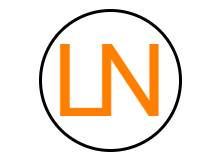
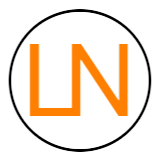
gui

Changed region(s): [[0.0312, 0.0312, 0.9688, 0.9688], [0.5938, 0.4062, 0.625, 0.4375]]

diff --git a/src/gui.py b/src/gui.py
@@ -1,22 +1,20 @@
+# gui.py
+
 import tkinter as tk
-from logic import evaluate
-
-
+from calculator import evaluate
 
 class CalculatorGUI:
     def __init__(self, master):
         self.master = master
 
-        
         master.title("Lucenext")
         master.configure(bg='black')
         master.geometry("400x600")
-        # master.iconbitmap('src/icon.png')
+        icon = tk.PhotoImage(file='src/icon.png')
+        master.iconphoto(True, icon)
         master.resizable(False, False)
 
 
-        
-        # Configure grid for equal column widths and uniform gaps
         for i in range(5):
             master.grid_columnconfigure(i, weight=1, uniform='col')
         for r in range(0, 11):
@@ -27,8 +25,6 @@ class CalculatorGUI:
         self.result_var = tk.StringVar()
         self.last_result = 0
 
-
-        # Displays
         tk.Label(master, textvariable=self.expr_var,
                  anchor='e', bg='black', fg='white',
                  font=('Arial', 14)) \
@@ -40,7 +36,6 @@ class CalculatorGUI:
           .grid(row=2, column=0, columnspan=5,
                 sticky='we', padx=2, pady=(0,2))
 
-        # Base selection aligned above first three function buttons
         self.base_var = tk.IntVar(value=10)
         for idx, (text, val) in enumerate([('Decimal',10),
                                            ('Octal',8),
@@ -51,13 +46,11 @@ class CalculatorGUI:
                 selectcolor='gray30', bd=0, highlightthickness=0,
                 relief='flat'
             )
-            rb.grid(row=3, column=idx,
-                    sticky='nsew', padx=2, pady=2)
+            rb.grid(row=3, column=idx, sticky='nsew', padx=2, pady=2)
 
         tk.Label(master, bg='black') \
           .grid(row=3, column=3, columnspan=2)
 
-        # Button layout
         btn_rows = [
             ['sin','cos','tg','cotg','e'],
             ['ln','log','|x|','CE','⌫'],
@@ -76,23 +69,20 @@ class CalculatorGUI:
                     command=cmd, bd=0, relief='flat',
                     highlightthickness=0
                 )
-                # Color coding
                 if char.isdigit() or char in (',', 'ANS'):
                     btn.config(bg='gray30', fg='white')
                 elif char in ['+','–','×','÷','=']:
                     btn.config(bg='darkorange', fg='black')
                 else:
                     btn.config(bg='white', fg='black')
-                btn.grid(row=r, column=c,
-                         sticky='nsew', padx=2, pady=2)
+                btn.grid(row=r, column=c, sticky='nsew', padx=2, pady=2)
                 self.buttons[char] = btn
 
     def on_button(self, char):
         expr = self.expr_var.get()
 
-        # ANS: insert last result
         if char == 'ANS':
-            ans_str = str(self.last_result).replace('.', ',')
+            ans_str = self.format_result(self.last_result).replace('.', ',')
             if self.after_equal or not expr:
                 self.expr_var.set(ans_str)
             else:
@@ -117,7 +107,7 @@ class CalculatorGUI:
                 expr += ')' * (open_p - close_p)
                 self.expr_var.set(expr)
 
-            result = evaluate(expr)
+            result = evaluate(expr, self.base_var.get())
             self.last_result = result
             out = self.format_result(result).replace('.', ',')
             self.result_var.set(out)
@@ -129,7 +119,7 @@ class CalculatorGUI:
                 new_expr = char
             else:
                 m = self._get_mapping()
-                new_expr = str(self.last_result).replace('.', ',') + m.get(char, char)
+                new_expr = self.format_result(self.last_result) + m.get(char, char)
             self.expr_var.set(new_expr)
             self.result_var.set("")
             self.after_equal = False
@@ -150,15 +140,24 @@ class CalculatorGUI:
         }
 
     def format_result(self, res):
-        try:
-            ival = int(res)
+        # integer → base conversion
+        if isinstance(res, int):
             base = self.base_var.get()
             if base == 2:
-                return bin(ival)[2:]
+                return bin(res)[2:]
             if base == 8:
-                return oct(ival)[2:]
-        except Exception:
-            pass
+                return oct(res)[2:]
+            return str(res)
+
+        # float → round + strip noise, ensure at least one decimal place
+        if isinstance(res, float):
+            rounded = round(res, 10)
+            s = f"{rounded:.10f}".rstrip('0').rstrip('.')
+            if '.' not in s:
+                s += '.0'
+            return s
+
+        # fallback
         return str(res)
 
     def change_base(self):

diff --git a/src/math_lib.py b/src/math_lib.py
@@ -26,11 +26,19 @@ def compute_e(precision=20):
         e += 1 / fact(i) 
     return e
 
-# def pi(precision=10000000):
-#     pi = 0.0
-#     for i in range(precision):
-#         pi += ((-1)**i) / (2*i + 1)
-#     return 4 * pi
+def arctan(x, precision=1e-17): # Fast arctan for Machin-like pi
+    term = x
+    result = x
+    n = 1
+    while abs(term) > precision:
+        term *= -x*x
+        result += term / (2*n + 1)
+        n += 1
+    return result
+
+# Machin formula: π = 4*(4*arctan(1/5) − arctan(1/239))
+def pi(precision=1e-17):
+    return 4 * (4*arctan(1/5, precision) - arctan(1/239, precision))
 
 def square(a):
     return a*a
@@ -109,63 +117,6 @@ def abs(a):
     if a<0:
         return -a
     return a
-
-def convert_number(a, flag):
-    if flag == 1:  # Binary to Decimal (2 -> 10)
-        b = 0
-        c = 0
-        while a != 0:
-            d = a % 10
-            b += d * (2 ** c)
-            a = a // 10
-            c += 1
-        return b
-
-    elif flag == 2:  # Decimal to Binary (10 -> 2)
-        if a == 0:
-            return 0
-        digits = []
-        while a != 0:
-            digits.append(str(a % 2))
-            a //= 2
-        return int(''.join(digits[::-1]))  # Reverse and join as a string, then convert to integer
-
-    elif flag == 3:  # Decimal to Octal (10 -> 8)
-        if a == 0:
-            return 0
-        digits = []
-        while a != 0:
-            digits.append(str(a % 8))
-            a //= 8
-        return int(''.join(digits[::-1]))
-
-    elif flag == 4:  # Octal to Decimal (8 -> 10)
-        b = 0
-        c = 0
-        while a != 0:
-            d = a % 10
-            b += d * (8 ** c)
-            a //= 10
-            c += 1
-        return b
-
-    else:
-        return "Invalid flag"
-
-# Fast arctan for Machin-like pi
-def arctan(x, precision=1e-17):
-    term = x
-    result = x
-    n = 1
-    while abs(term) > precision:
-        term *= -x*x
-        result += term / (2*n + 1)
-        n += 1
-    return result
-
-# Machin formula: π = 4*(4*arctan(1/5) − arctan(1/239))
-def pi(precision=1e-17):
-    return 4 * (4*arctan(1/5, precision) - arctan(1/239, precision))
 
 # Helper: snap tiny errors to exact integer
 def _snap_to_integer(val, precision):

diff --git a/src/calculator.py b/src/calculator.py
@@ -1,4 +1,76 @@
-import gui
+# calculator.py
+
+import re
+import math_lib as math
+import gui  # assumes gui.py sits alongside this file
+
+def evaluate(expr, base=10):
+    """
+    1) If base≠10, convert each integer literal from that base into decimal.
+    2) Preserve commas inside nthroot(...) and log(...).
+    3) Convert all other numeric commas (e.g. 3,14) into dots.
+    4) Restore the preserved commas.
+    5) Safe eval via math_lib.
+    """
+    # 1) Convert integer literals from chosen base → decimal
+    if base != 10:
+        if base == 2:
+            pat = r'\b[01]+\b'
+            conv = lambda m: str(int(m.group(), 2))
+        elif base == 8:
+            pat = r'\b[0-7]+\b'
+            conv = lambda m: str(int(m.group(), 8))
+        else:
+            pat = None
+
+        if pat:
+            expr = re.sub(pat, conv, expr)
+
+    # 2) Temporarily replace argument-commas in nthroot(...) and log(...) with a placeholder '#'
+    expr = re.sub(
+        r'(nthroot\(\s*[^,()]+\s*),(?=\s*[^,()]+\s*\))',
+        lambda m: m.group(1) + '#',
+        expr
+    )
+    expr = re.sub(
+        r'(log\(\s*[^,()]+\s*),(?=\s*[^,()]+\s*\))',
+        lambda m: m.group(1) + '#',
+        expr
+    )
+
+    # 3) Replace any comma between digits (decimal commas) with a dot
+    expr = re.sub(r'(?<=\d),(?=\d)', '.', expr)
+
+    # 4) Restore the argument-commas
+    expr = expr.replace('#', ',')
+
+    # 5) Build a safe namespace from math_lib
+    safe_ns = {
+        name: getattr(math, name)
+        for name in dir(math)
+        if not name.startswith('_')
+    }
+    safe_ns.update({
+        'sqrt': math.sqrt,
+        'cbrt': math.cbrt,
+        'nthroot': math.nthroot,
+        'fact': math.fact,
+        'ln': math.ln,
+        'log': math.log,
+        'sin': math.sin,
+        'cos': math.cos,
+        'tg': math.tg,
+        'cotg': math.cotg,
+        'compute_e': math.compute_e,
+        'pi': math.pi,
+        'abs': math.abs
+    })
+    safe_ns['__builtins__'] = None
+
+    try:
+        return eval(expr, safe_ns, {})
+    except Exception:
+        return 0
 
 if __name__ == "__main__":
     gui.main()
